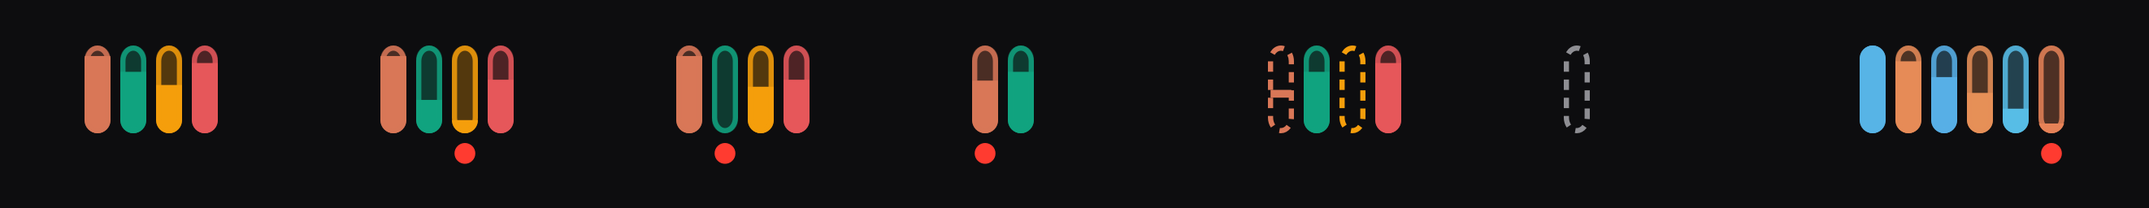
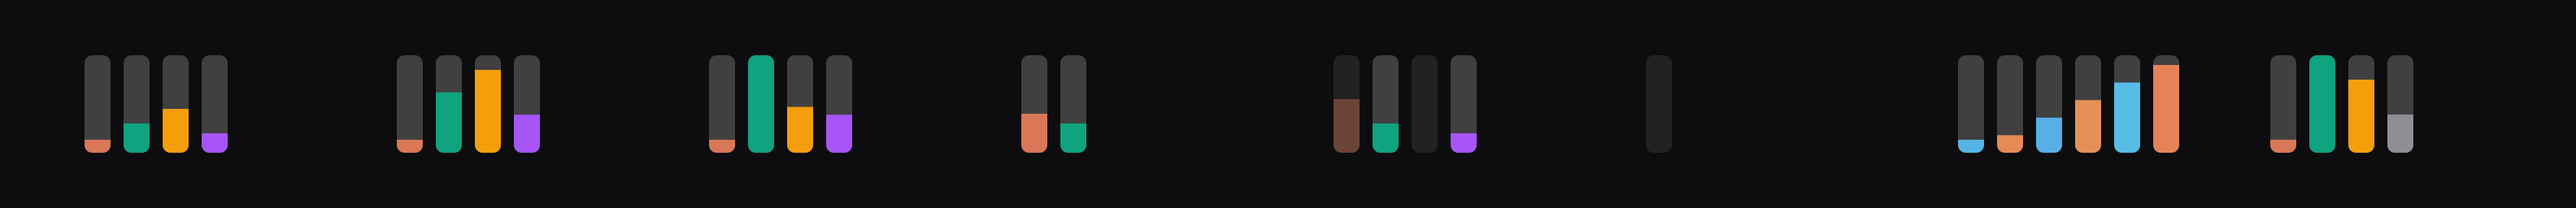
fix: menu-bar bars fill to used on a plain track, drop dots and dashes, violet Grok Bot

diff --git a/QuotaUI/Sources/QuotaUI/MenuBarImage.swift b/QuotaUI/Sources/QuotaUI/MenuBarImage.swift
@@ -2,24 +2,31 @@
 import AppKit
 import QuotaCore
 
-/// Draws the menu-bar item: a row of narrow vertical bars, one per provider, in the provider's colour. A bar's fill height is
-/// how much is left. No text, so a glance reads shapes and colours only.
+/// Draws the menu-bar item: a row of narrow vertical level meters, one per provider. One visual variable per meaning:
 ///
-/// - Live: tinted track with a solid fill from the bottom.
-/// - Out of date: hollow with a dashed edge and a tick where the last known level was.
-/// - No data yet: hollow, dashed, empty.
-/// - Running low or exhausted: a red dot under the bar (colour means "which provider", so the warning is a separate shape).
+/// - **Height = how much is used** in the provider's tightest window, filled from the bottom like the usage bars in the
+///   dropdown panel (and the providers' own "% used" pages). A full bar is a used-up window; a calm menu bar is short bars.
+/// - **Colour = which provider** (`ProviderInfo.brandHex`). Every bar keeps a short stub of its colour even at 0 % used, so
+///   each provider stays identifiable.
+/// - The empty part is a neutral grey track with no outline, so an empty bar never looks like a full one.
+/// - Out of date: the same bar, faded. No data yet: the track alone, faded.
 ///
-/// It carries its own colours (a template image could not be coloured per provider). The size depends only on how many
-/// providers have bars, so values changing never move the neighbouring menu-bar items.
+/// No text, dots or dashes: at menu-bar size extra marks read as punctuation, and the tooltip carries the numbers. The image
+/// carries its own colours (a template image could not be coloured per provider). The size depends only on how many providers
+/// have bars, so values changing never move the neighbouring menu-bar items.
 public enum MenuBarImage {
     public static let height: CGFloat = 20
     static let barWidth: CGFloat = 4
-    static let gap: CGFloat = 1.5
+    static let gap: CGFloat = 2
     static let pad: CGFloat = 1
-    static let barTop: CGFloat = 19
-    static let barBottom: CGFloat = 5.5
-    static let dot: CGFloat = 3.2
+    static let barBottom: CGFloat = 2.5
+    static let barTop: CGFloat = 17.5
+    static let corner: CGFloat = 1.2
+    /// Fill shown at 0 % used, so the bar still shows its provider's colour.
+    static let minFill: CGFloat = 2
+    /// Mid grey at this alpha reads as a quiet track on both a dark and a light menu bar.
+    static let track = NSColor(white: 0.5, alpha: 0.45)
+    static let fadedAlpha: CGFloat = 0.4
 
     /// Width for a number of bars (at least one: the empty placeholder).
     public static func width(bars: Int) -> CGFloat {
@@ -31,16 +38,23 @@ public enum MenuBarImage {
         NSColor(srgbRed: CGFloat((hex >> 16) & 0xFF) / 255, green: CGFloat((hex >> 8) & 0xFF) / 255, blue: CGFloat(hex & 0xFF) / 255, alpha: 1)
     }
 
+    /// Fill height in points for a used percentage: proportional, never below the colour stub.
+    static func fillHeight(used: Double) -> CGFloat {
+        let h = (barTop - barBottom) * CGFloat(min(100, max(0, used)) / 100)
+        return max(minFill, h)
+    }
+
     public static func image(for status: MenuBarStatus) -> NSImage {
         let bars = status.bars
         let size = NSSize(width: width(bars: bars.count), height: height)
         let image = NSImage(size: size, flipped: false) { _ in
             if bars.isEmpty {
-                // Nothing to show yet: one empty dashed bar in neutral grey.
-                drawBar(x: pad, kind: .noData, remaining: nil, tint: color(ProviderInfo.neutralHex), alert: false)
+                // Nothing to show yet: one faded empty track.
+                drawBar(x: pad, used: nil, tint: color(ProviderInfo.neutralHex), alpha: fadedAlpha)
             }
             for (i, bar) in bars.enumerated() {
-                drawBar(x: pad + CGFloat(i) * (barWidth + gap), kind: bar.kind, remaining: bar.remaining, tint: color(bar.colorHex), alert: bar.alert)
+                drawBar(x: pad + CGFloat(i) * (barWidth + gap), used: bar.used, tint: color(bar.colorHex),
+                        alpha: bar.kind == .live ? 1 : fadedAlpha)
             }
             return true
         }
@@ -49,43 +63,17 @@ public enum MenuBarImage {
         return image
     }
 
-    private static func drawBar(x: CGFloat, kind: MenuBarStatus.Kind, remaining: Double?, tint: NSColor, alert: Bool) {
+    private static func drawBar(x: CGFloat, used: Double?, tint: NSColor, alpha: CGFloat) {
         let frame = NSRect(x: x, y: barBottom, width: barWidth, height: barTop - barBottom)
-        let r = barWidth / 2
-        let outline = NSBezierPath(roundedRect: frame.insetBy(dx: 0.4, dy: 0.4), xRadius: r, yRadius: r)
-        outline.lineWidth = 0.8
-        switch kind {
-        case .live:
-            tint.withAlphaComponent(0.3).setFill()
-            NSBezierPath(roundedRect: frame, xRadius: r, yRadius: r).fill()
-            if let left = remaining {
-                let h = frame.height * CGFloat(min(100, max(0, left)) / 100)
-                if h > 0.5 {
-                    NSGraphicsContext.saveGraphicsState()
-                    NSBezierPath(roundedRect: frame, xRadius: r, yRadius: r).addClip()
-                    tint.setFill()
-                    NSRect(x: frame.minX, y: frame.minY, width: frame.width, height: max(h, 1.5)).fill()
-                    NSGraphicsContext.restoreGraphicsState()
-                }
-            }
-            tint.withAlphaComponent(0.85).setStroke()
-            outline.stroke()
-        case .stale, .noData:
-            tint.setStroke()
-            outline.setLineDash([1.6, 1.2], count: 2, phase: 0)
-            outline.stroke()
-            if kind == .stale, let left = remaining {
-                // Where the level was when the data was last good.
-                let y = frame.minY + frame.height * CGFloat(min(100, max(0, left)) / 100)
-                tint.setFill()
-                NSRect(x: frame.minX + 0.4, y: min(max(y, frame.minY + 0.8), frame.maxY - 1.6) - 0.6, width: frame.width - 0.8, height: 1.2).fill()
-            }
-        }
-        if alert {
-            let d = NSRect(x: frame.midX - dot / 2, y: 0.8, width: dot, height: dot)
-            NSColor(srgbRed: 1, green: 0.23, blue: 0.19, alpha: 1).setFill()
-            NSBezierPath(ovalIn: d).fill()
-        }
+        let shape = NSBezierPath(roundedRect: frame, xRadius: corner, yRadius: corner)
+        track.withAlphaComponent(track.alphaComponent * alpha).setFill()
+        shape.fill()
+        guard let used else { return }
+        NSGraphicsContext.saveGraphicsState()
+        shape.addClip()
+        tint.withAlphaComponent(alpha).setFill()
+        NSRect(x: frame.minX, y: frame.minY, width: frame.width, height: fillHeight(used: used)).fill()
+        NSGraphicsContext.restoreGraphicsState()
     }
 }
 #endif

diff --git a/QuotaUI/Sources/QuotaUI/MenuBarStatus.swift b/QuotaUI/Sources/QuotaUI/MenuBarStatus.swift
@@ -2,15 +2,16 @@ import Foundation
 import QuotaCore
 
 /// What the menu-bar item says, decided from the snapshot alone (no drawing): one narrow bar per provider, coloured by
-/// provider, filled to how much is **left** in that provider's tightest window. No text appears in the menu bar; the
-/// tooltip carries the words. `MenuBarImage` draws it; keeping the decision here makes it testable.
+/// provider, filled to how much is **used** in that provider's tightest window (the same direction as the dropdown's usage
+/// bars). No text appears in the menu bar; the tooltip carries the words. `MenuBarImage` draws it; keeping the decision
+/// here makes it testable.
 public struct MenuBarStatus: Sendable, Equatable {
     public enum Kind: Sendable, Equatable {
         /// A fresh reading: solid bar.
         case live
-        /// Last known value: the provider is failing or has not answered for a while. Drawn hollow with a dashed edge.
+        /// Last known value: the provider is failing or has not answered for a while. Drawn faded.
         case stale
-        /// A provider that has nothing to show yet. Hollow, dashed, no level.
+        /// A provider that has nothing to show yet. Drawn as a faded empty track.
         case noData
     }
 
@@ -25,8 +26,10 @@ public struct MenuBarStatus: Sendable, Equatable {
         public var windowTitle: String?
         /// 0…100 left in that window; nil for `.noData`.
         public var remaining: Double?
-        /// Running low (80 % used, or a forecast that runs out before the reset) or exhausted. Shown as a dot, never as colour,
-        /// because colour already means "which provider".
+        /// 0…100 used in that window (what the bar's height shows); nil for `.noData`.
+        public var used: Double? { remaining.map { 100 - $0 } }
+        /// Running low (80 % used, or a forecast that runs out before the reset) or exhausted. Not drawn (a tall bar already
+        /// says it, and colour means "which provider"); it feeds the tooltip and the debug log.
         public var alert: Bool
     }
 

diff --git a/QuotaUI/Tests/QuotaUITests/MenuBarStatusTests.swift b/QuotaUI/Tests/QuotaUITests/MenuBarStatusTests.swift
@@ -3,7 +3,7 @@ import Testing
 import QuotaCore
 @testable import QuotaUI
 
-/// The menu-bar bars: one per provider, filled to what is left in its tightest window, with alert / out-of-date / no-data states
+/// The menu-bar bars: one per provider, filled to what is used in its tightest window, with alert / out-of-date / no-data states
 /// and a tooltip that carries every number (the item itself has no text).
 @Suite struct MenuBarStatusTests {
     let now = Date(timeIntervalSince1970: 1_792_120_000)
@@ -125,6 +125,24 @@ import QuotaCore
         let many = (0..<9).map { provider(ProviderID("p\($0)"), [window("a", used: 10)]) }
         #expect(make(many).bars.count == MenuBarStatus.maxBars)
     }
+
+    /// The bar's height is what is used (same direction as the dropdown's usage bars), so a used-up window is a full bar.
+    @Test func barHeightFollowsUsedNotLeft() {
+        let s = make([provider(.claude, [window("a", used: 12)]), provider(.codex, [window("b", used: 100)]),
+                      provider(.opencode, [], status: .network("down"))])
+        #expect(s.bars.map(\.used) == [12, 100, nil])
+    }
+
+    #if os(macOS)
+    /// Every bar keeps a stub of its provider's colour at 0 % used; full use fills the whole bar.
+    @Test func fillHeightKeepsAColourStubAndFillsToTheTop() {
+        let full = MenuBarImage.barTop - MenuBarImage.barBottom
+        #expect(MenuBarImage.fillHeight(used: 0) == MenuBarImage.minFill)
+        #expect(MenuBarImage.fillHeight(used: 50) == full / 2)
+        #expect(MenuBarImage.fillHeight(used: 100) == full)
+        #expect(MenuBarImage.fillHeight(used: 140) == full)
+    }
+    #endif
 
     @Test func tooltipHasOneLineWithProviderWindowLeftAndResetPerProvider() {
         let s = make([provider(.claude, [window("a", "Weekly", used: 38)]), provider(.codex, [window("b", used: 60)])])

diff --git a/QuotaUI/Sources/WidgetRender/main.swift b/QuotaUI/Sources/WidgetRender/main.swift
@@ -101,13 +101,15 @@ MainActor.assumeIsolated {
     }
 }
 
-// The menu-bar item (a row of provider-coloured bars) on a dark and a light menu bar (sanity check), in each state.
+// The menu-bar item (a row of provider-coloured bars, height = used) on a dark and a light menu bar, in each state.
 // `menubar-{dark,light}.png`; QP_SNAPSHOT adds the real snapshot as a last row.
 MainActor.assumeIsolated {
     func provider(_ id: ProviderID, used: Double?, forecast: Forecast? = nil, status: ProviderStatus = .ok, age: TimeInterval = 60) -> ProviderSnapshot {
         let w = used.map { [UsageWindow(id: "w", title: "5-hour", utilization: $0, resetsAt: now.addingTimeInterval(8000), duration: 18000)] } ?? []
+        // Grok Bot is not built in: its colour travels in its descriptor, as it does in a real snapshot.
         return ProviderSnapshot(id: id, fetchedAt: now.addingTimeInterval(-age), status: status, windows: w,
-                                forecasts: forecast.map { ["w": $0] } ?? [:], lastSuccessAt: now.addingTimeInterval(-age))
+                                forecasts: forecast.map { ["w": $0] } ?? [:], lastSuccessAt: now.addingTimeInterval(-age),
+                                info: id == .grokbot ? GrokBotProvider().descriptor.info : nil)
     }
     func status(_ providers: [ProviderSnapshot]) -> MenuBarStatus {
         MenuBarStatus.make(snapshot: QuotaSnapshot(generatedAt: now, hubName: "Mac", providers: providers), now: now)

diff --git a/QuotaCore/Sources/QuotaCore/Providers/GrokBotProvider.swift b/QuotaCore/Sources/QuotaCore/Providers/GrokBotProvider.swift
@@ -10,7 +10,7 @@ public extension ProviderID {
 public struct GrokBotProvider: UsageProvider {
     public let descriptor = ProviderDescriptor(
         id: .grokbot,
-        info: ProviderInfo(displayName: "Grok Bot", subtitle: "Desktop app", kind: .rateWindows, brandHex: 0x8E8E93, symbol: "scope",
+        info: ProviderInfo(displayName: "Grok Bot", subtitle: "Desktop app", kind: .rateWindows, brandHex: 0xA855F7, symbol: "scope",
                            dashboardURL: URL(string: "https://cursor.com/dashboard/spending")),
         defaultEnabled: true)
     public static let usageURL = URL(string: "https://api2.cursor.sh/aiserver.v1.DashboardService/GetSandUsageStatus")!

diff --git a/CLAUDE.md b/CLAUDE.md
@@ -31,7 +31,7 @@ No linter is configured. Swift 6 strict concurrency (`complete`) everywhere; dep
   - `Store/QuotaEngine` — polling loop, backoff, history persistence; `Forecast/ForecastEngine` — least-squares burn rate, exhaustion time, pace.
   - **Three ways numbers reach a device**, merged by "newest snapshot wins": iCloud/CloudKit (`Cloud/`: Mac publishes, iPhone/Watch read; production environment only), the Mac's authenticated HTTP **hub** (`Hub/`, port 48422), and an optional **gateway** (`Gateway/`, enabled by `gateway.json`, replaces local OpenCode/DeepSeek keys and receives reports). `Models/Models.swift` holds the shared `QuotaSnapshot` wire types — hub/iCloud payloads must stay decodable by older clients (hence `providers=all` gating and self-describing provider info).
   - `Telemetry/` — device log shipping to the hub.
-- **`QuotaUI`** (SwiftPM): shared SwiftUI components, widget views, menu summary lines, the menu-bar item (`MenuBarStatus` builds one bar per provider from the snapshot: tightest window, left %, alert / stale / no-data; `MenuBarImage` draws them as a text-free coloured image, colour = `ProviderInfo.brandHex`, which `ProviderInfo.defaultHex(for:)` derives from the id when a provider publishes none; `WidgetRender` draws `menubar-{dark,light}.png`) and the menu-bar group view (`MenuGroupView`, so `WidgetRender` can draw the real panel to `menu-panel-{light,dark}.png` for headless contrast checks), localized strings (`Resources/Localizable.xcstrings`).
+- **`QuotaUI`** (SwiftPM): shared SwiftUI components, widget views, menu summary lines, the menu-bar item (`MenuBarStatus` builds one bar per provider from the snapshot: tightest window, used %, alert (tooltip/log only) / stale / no-data; `MenuBarImage` draws them as text-free level meters, height = used, faded when stale, colour = `ProviderInfo.brandHex`, which `ProviderInfo.defaultHex(for:)` derives from the id when a provider publishes none; `WidgetRender` draws `menubar-{dark,light}.png`) and the menu-bar group view (`MenuGroupView`, so `WidgetRender` can draw the real panel to `menu-panel-{light,dark}.png` for headless contrast checks), localized strings (`Resources/Localizable.xcstrings`).
 - **App targets** declared in `project.yml`: `macOS/App` (+ `macOS/Widget`, Sparkle updater), `iOS/App` (+ widget, UI tests), `watchOS/App` (+ complications). `Shared/Resources` holds app icon and strings.
 - Localization: `.xcstrings` catalogs are generated by `scripts/gen-strings.py`; edit the script / `zh-Hans.json`, not the catalogs. `zh-Hans.json` is keyed by the source literal (`Resets in \(…)`); the script writes the runtime key (`Resets in %@`, `%lld` for Int expressions, literal `%` doubled), so an interpolation of a new Int-typed shape may need `INT_EXPR` updated — `--verify` catches it. Window titles and provider subtitles published by QuotaCore are looked up at runtime (`UsageWindow.localizedTitle`, `localizedSubtitle`), so the script also collects their literals.
 - Colour encoding: brand colour = which provider (glyph, border, sparkline); bar length / ring arc = how much is used; `UsageLevel(window:forecast:)` = health (percent, bar, ring colour). The overview grid is `MasonryLayout` (QuotaUI).

diff --git a/README.md b/README.md
@@ -53,7 +53,7 @@ Screenshots come from the running apps: the Mac itself, iPhone 17 (iOS 27.0) and
 
 **Forecasts** — a least-squares burn rate over the current window (resets and top-ups start a new cycle automatically) gives projected usage at reset, the exhaustion time if you'll hit 100 % early, and a pace indicator against a linear budget. Balances get a burn per day and per hour (`rate`/`daysRemaining` and `ratePerHour`/`hoursRemaining` side by side, so older apps keep reading the daily pair), shown in hours below 72 h left and in days beyond. Confidence grows with sample count and span.
 
-**macOS** — menu-bar item of narrow bars, one per provider in its own colour and filled to what is left in its tightest window (no text; a red dot under a bar when it is running low or used up, dashed hollow bars for out-of-date or empty data, a tooltip with every number); instant dropdown listing every provider's usage bars, reset countdown and balance at a glance; main window with Overview, 24 h / 7 d / 30 d history charts and forecast table, provider settings, iCloud sync, optional hub pairing with QR code, threshold notifications (opt-in, 80 % / 95 %), launch at login. Desktop widgets in small (pick a provider), medium and large.
+**macOS** — menu-bar item of narrow level meters, one per provider in its own colour and filled to what is used in its tightest window, like the dropdown's usage bars (no text: a full bar is a used-up window, a faded bar is out of date, the tooltip has every number); instant dropdown listing every provider's usage bars, reset countdown and balance at a glance; main window with Overview, 24 h / 7 d / 30 d history charts and forecast table, provider settings, iCloud sync, optional hub pairing with QR code, threshold notifications (opt-in, 80 % / 95 %), launch at login. Desktop widgets in small (pick a provider), medium and large.
 
 **iOS** — open it and your numbers are there, delivered through iCloud on any network, with a silent push when the Mac publishes. Provider cards, detail charts, pull-to-refresh, background refresh, home-screen and lock-screen widgets. A banner tells you when the Mac has gone quiet. Pushes data to the watch. A direct connection (scan the QR code or paste URL + token) is optional.
 

diff --git a/CHANGELOG.md b/CHANGELOG.md
@@ -5,6 +5,10 @@ The format is based on [Keep a Changelog](https://keepachangelog.com/en/1.1.0/),
 
 ## [Unreleased]
 
+### Changed
+- Menu-bar bars fill to what is **used**, the same direction as the dropdown's usage bars, on a plain grey track with a colour stub at 0 %, so a full bar is a used-up window; the red dots and dashed outlines are gone (out-of-date bars are faded instead).
+- Grok Bot's colour is violet instead of grey, which read as disabled next to the other bars.
+
 ## [0.5.2] - 2026-11-27
 
 ### Changed
